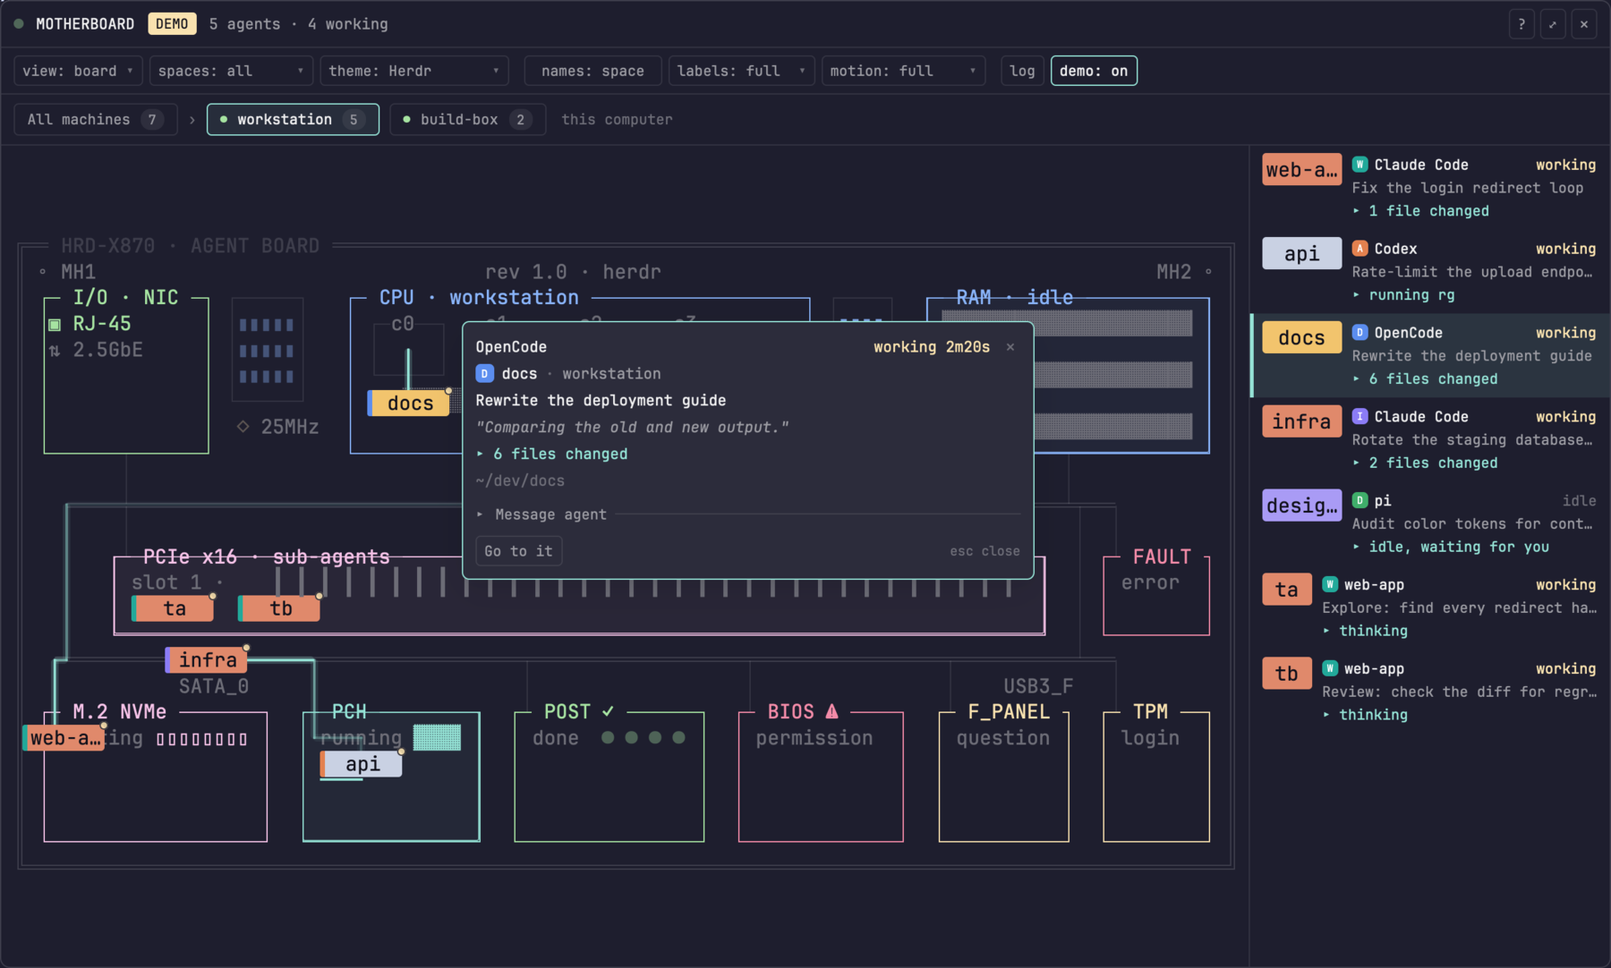
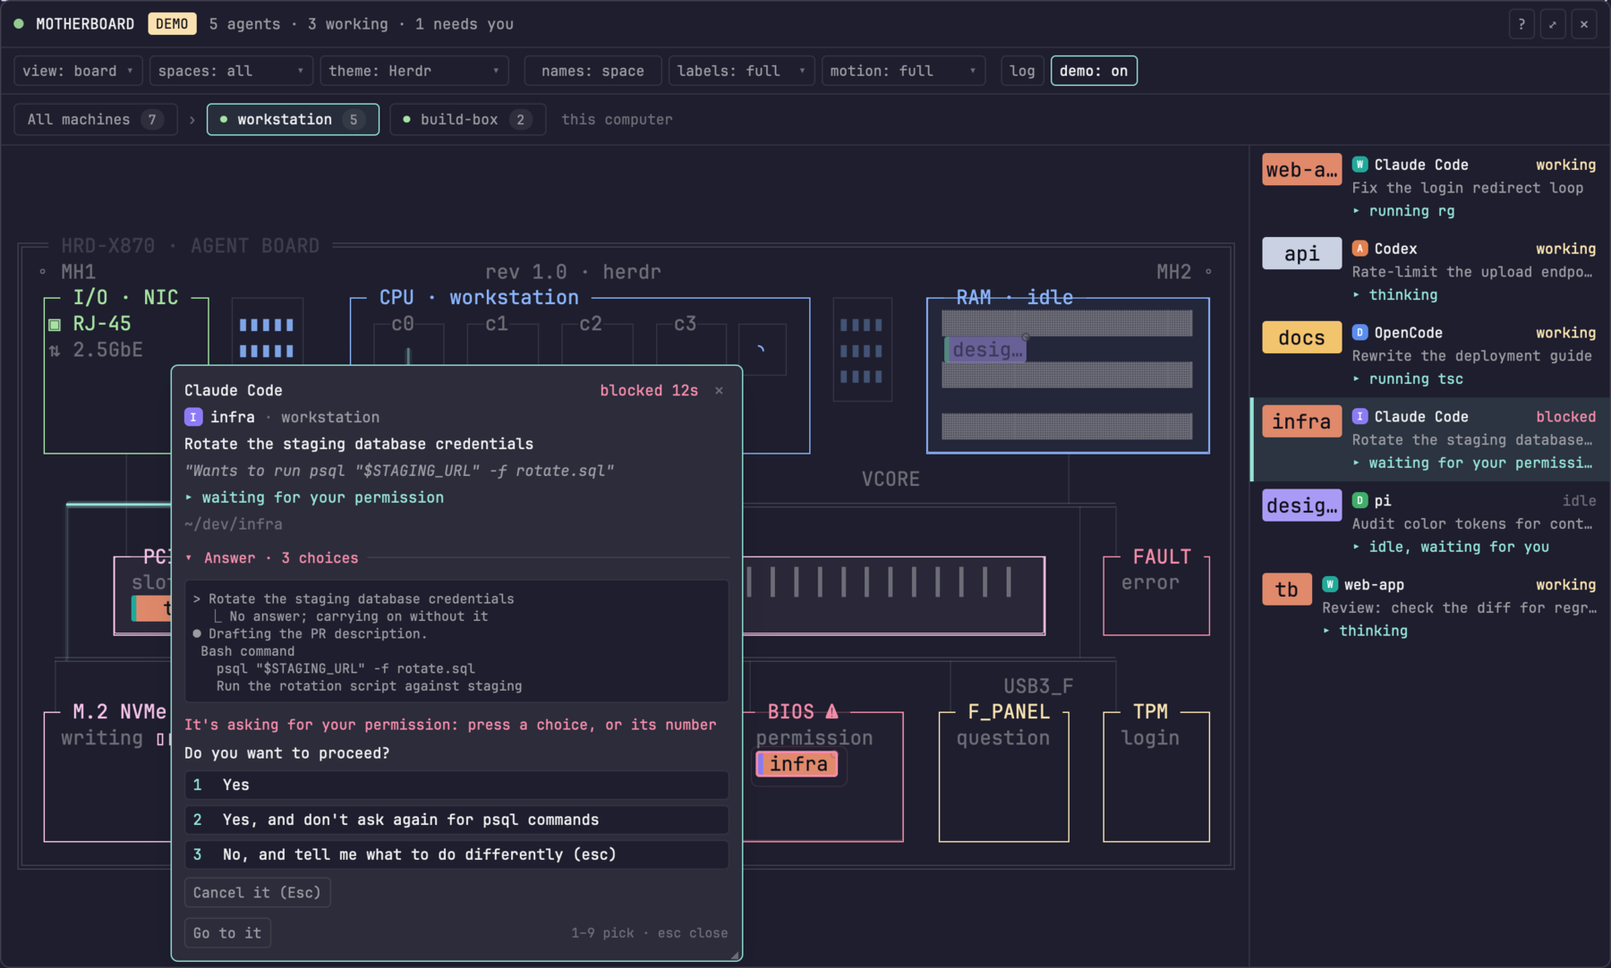
feat: message and answer demo agents
Demo agents now keep a screen, draw real-looking prompts and take the card's keys and messages, so the demo shows talking to agents. Demo cards remember expanded state in memory so they don't touch real agents' settings. The README gets a GIF of answering and messaging an agent, and an iso GIF.

diff --git a/mods/herdr-motherboard/demo.js b/mods/herdr-motherboard/demo.js
@@ -1,7 +1,9 @@
 // Demo mode: seven simulated agents on two machines, cycling through every state.
 // They are fed to the board in the same shapes Herdr's agents() and terminals() use,
 // plus what observation would have seen, so the board's real placement and motion
-// rules run on them unchanged. Pure: no herdr or gpui-kit imports.
+// rules run on them unchanged. Each one also keeps a made-up screen, drawn like an agent's (with a
+// numbered prompt while it's blocked), and takes the card's keys and messages the way a real
+// terminal takes `hc keys` and `hc send`, so the card works in demo. Pure: no herdr or gpui-kit imports.
 
 const APPS = {
   claude: { app: "claude-code", program: { key: "claude", name: "Claude Code" } },
@@ -15,7 +17,19 @@ const MSGS = [
   "Comparing the old and new output.", "Splitting this into two commits.", "Tracing where the token is refreshed.",
 ];
 const DONE = ["Done: 3 files changed, tests pass.", "PR #42 opened into develop.", "Guide rewritten; links checked.", "Audit written to findings.md."];
-const BLOCK = { permission: "Wants approval to push the branch.", question: "Should the limit be per user or per key?", auth: "gh needs you to log in again." };
+// What a blocked agent asks: a permission prompt for a command, a question with choices, or a login.
+const PERMS = [
+  { cmd: "git push -u origin HEAD", why: "Push the branch to origin", again: "git push" },
+  { cmd: "rm -rf dist", why: "Remove the old build output", again: "rm" },
+  { cmd: "psql \"$STAGING_URL\" -f rotate.sql", why: "Run the rotation script against staging", again: "psql" },
+];
+const QUESTIONS = [
+  { q: "Should the limit be per user or per key?", opts: ["Per user (Recommended)", "Per API key"] },
+  { q: "Which style should the guide use?", opts: ["Step by step (Recommended)", "Reference"] },
+  { q: "Keep the old endpoint working for a release?", opts: ["Yes, with a deprecation warning (Recommended)", "No, remove it now"] },
+];
+const RULE = "─".repeat(46);
+const LOG_LINES = 40;
 const CMDS = { pch: ["vitest", "pnpm", "tsc", "eslint", "make", "rg"], nic: ["curl", "gh", "git", "ssh"] };
 const SUB_TITLES = ["Explore: find every redirect handler", "Review: check the diff for regressions", "Search: where the session cookie is set"];
 const pick = (a) => a[Math.floor(Math.random() * a.length)];
@@ -50,9 +64,104 @@ export class Demo {
     };
     a.address = a.machine ? `${a.machine}/${a.label}` : a.label;
     if (a.parent && a.machine) a.parent = `${a.machine}/${a.parent}`;
-    a.msg = a.status === "done" ? pick(DONE) : a.status === "blocked" ? BLOCK[a.kind] : pick(MSGS);
+    a.lines = [`> ${a.title}`, ""];
+    a.ask = null;
+    a.typing = false;
+    // The seeded blocked agent (infra) asks to run its rotation script.
+    if (a.status === "blocked") this.block(a, a.kind ?? "permission", now, a.next, 2);
+    else { a.msg = a.status === "done" ? pick(DONE) : pick(MSGS); this.log(a, `● ${a.msg}`); }
     this.agents.push(a);
     return a;
+  }
+
+  /** Adds a line to an agent's screen, keeping the last LOG_LINES. */
+  log(a, line) {
+    a.lines.push(line);
+    if (a.lines.length > LOG_LINES) a.lines.splice(0, a.lines.length - LOG_LINES);
+  }
+
+  /** Blocks an agent on a prompt of `kind` (permission, question or auth) until `next`; `which` picks the command. */
+  block(a, kind, now, next = now + rand(14000, 22000), which = null) {
+    const ask = kind === "permission" ? { kind, ...(PERMS[which] ?? pick(PERMS)) } : kind === "question" ? { kind, ...pick(QUESTIONS) } : { kind };
+    const msg = kind === "permission" ? `Wants to run ${ask.cmd}` : kind === "question" ? ask.q : "gh needs you to log in again.";
+    this.set(a, "blocked", { kind, msg, next });
+    a.ask = ask;
+    a.typing = false;
+  }
+
+  /** Ends a block: the agent goes back to work with `line` on its screen. */
+  unblock(a, line, msg) {
+    this.log(a, line);
+    this.set(a, "working", { kind: null, msg: msg ?? pick(MSGS), next: Date.now() + rand(2500, 5000) });
+    a.ask = null;
+    a.typing = false;
+    a.turn++;
+    a.files = 0;
+    this.log(a, `● ${a.msg}`);
+  }
+
+  /** Keeps a blocked agent waiting while its card is open, so it doesn't answer itself under you. */
+  hold(address, now) {
+    const a = this.agents.find((x) => x.address === address);
+    if (a?.status === "blocked") a.next = Math.max(a.next, now + 5000);
+  }
+
+  /** The agent's screen as text, as `hc read` would give it; null when there's no such agent. */
+  read(address) {
+    const a = this.agents.find((x) => x.address === address);
+    if (!a) return null;
+    const out = [...a.lines];
+    const k = a.ask;
+    if (a.status === "blocked" && k && !a.typing) {
+      out.push("", RULE);
+      if (k.kind === "permission") {
+        out.push(" Bash command", "", `   ${k.cmd}`, `   ${k.why}`, "", " Do you want to proceed?");
+        out.push(" ❯ 1. Yes", `   2. Yes, and don't ask again for ${k.again} commands`, "   3. No, and tell me what to do differently (esc)");
+      } else if (k.kind === "question") {
+        out.push(` ${k.q}`, ...k.opts.map((o, i) => `${i ? "  " : " ❯"} ${i + 1}. ${o}`), `   ${k.opts.length + 1}. Type something.`);
+      } else out.push(" gh: authentication required", "", " Run `gh auth login`, then tell me to go on.");
+      out.push("", " Esc to cancel");
+    }
+    if (a.typing) out.push("", "Your answer: ");
+    return out.join("\n");
+  }
+
+  /**
+   * Takes what the card sends, in `hc` argument form: ["keys", "--json", addr, key] or
+   * ["send", "--json", ("--force"), "--", addr, text]. Returns why it failed, or null.
+   */
+  input(args) {
+    const keys = args[0] === "keys";
+    const i = args.indexOf("--");
+    const address = keys ? args[2] : args[i + 1];
+    const a = this.agents.find((x) => x.address === address);
+    if (!a) return "that demo agent has gone";
+    if (keys) {
+      const key = args[3];
+      if (a.status !== "blocked" || !a.ask || a.typing) return null;
+      if (key === "esc") { this.unblock(a, "  ⎿ Cancelled by you", "Okay, leaving that for now."); return null; }
+      const n = +key;
+      const k = a.ask;
+      if (k.kind === "permission" && n >= 1 && n <= 3) {
+        if (n === 3) this.unblock(a, `  ⎿ Not run: ${k.cmd}`, "Okay, trying another way.");
+        else { this.unblock(a, `● Bash(${k.cmd})`, n === 2 ? `Ran it, and won't ask about ${k.again} again.` : "Ran it; checking the result."); }
+      } else if (k.kind === "question" && n >= 1 && n <= k.opts.length) this.unblock(a, `  ⎿ ${k.opts[n - 1]}`, "Got it, going with that.");
+      else if (k.kind === "question" && n === k.opts.length + 1) a.typing = true;
+      return null;
+    }
+    const text = String(args[i + 2] ?? "").trim();
+    if (!text) return null;
+    if (a.status === "blocked") {
+      if (!args.includes("--force")) return "it's waiting on a prompt";
+      this.unblock(a, `  ⎿ ${text}`, "Got it, going with your answer.");
+      return null;
+    }
+    this.log(a, "");
+    this.log(a, `> ${text}`);
+    this.set(a, "working", { msg: `Looking at: "${text.length > 40 ? text.slice(0, 39) + "…" : text}"`, next: Date.now() + rand(2500, 4000) });
+    a.turn++;
+    this.log(a, `● ${a.msg}`);
+    return null;
   }
 
   spaces() {
@@ -76,9 +185,9 @@ export class Demo {
     switch (a.status) {
       case "working": {
         const r = Math.random();
-        if (r < 0.05) { const kind = pick(["permission", "permission", "question", "auth"]); this.set(a, "blocked", { kind, msg: BLOCK[kind], next: now + rand(6000, 11000) }); }
-        else if (r < 0.11) { this.set(a, "done", { msg: pick(DONE), next: now + rand(8000, 14000) }); this.agents = this.agents.filter((x) => x.parent !== a.address); }
-        else if (r < 0.125) this.set(a, "error", { msg: "Lost the connection to the model API.", next: now + rand(7000, 10000) });
+        if (r < 0.05) this.block(a, pick(["permission", "permission", "question", "auth"]), now);
+        else if (r < 0.11) { this.set(a, "done", { msg: pick(DONE), next: now + rand(8000, 14000) }); this.log(a, `● ${a.msg}`); this.agents = this.agents.filter((x) => x.parent !== a.address); }
+        else if (r < 0.125) { this.set(a, "error", { msg: "Lost the connection to the model API.", next: now + rand(7000, 10000) }); this.log(a, `  ⎿ Error: ${a.msg}`); }
         else if (r < 0.19 && a.app === "claude" && !subs.length) {
           for (let i = 0; i < (Math.random() < 0.5 ? 2 : 1); i++) this.add({ label: this.nextLabel(), machine: a.machine, app: a.app, space: a.space, title: pick(SUB_TITLES), cwd: a.cwd, status: "working", act: "cpu", parent: a.label, next: now + rand(9000, 16000) });
           a.next = now + rand(3000, 5000);
@@ -86,18 +195,19 @@ export class Demo {
           const opts = [["cpu", 0.35], ["pch", 0.27], ["nvme", 0.24], ["nic", 0.14]].filter(([k]) => k !== a.act);
           let roll = Math.random() * opts.reduce((s, [, w]) => s + w, 0);
           a.act = opts.find(([, w]) => (roll -= w) <= 0)?.[0] ?? "cpu";
-          if (a.act === "pch" || a.act === "nic") a.cmd = pick(CMDS[a.act]);
-          if (a.act === "nvme") a.files = Math.min(14, a.files + 1 + Math.floor(Math.random() * 3));
-          if (Math.random() < 0.4) a.msg = pick(MSGS);
+          if (a.act === "pch" || a.act === "nic") { a.cmd = pick(CMDS[a.act]); this.log(a, `● Bash(${a.cmd} …)`); }
+          if (a.act === "nvme") { a.files = Math.min(14, a.files + 1 + Math.floor(Math.random() * 3)); this.log(a, `● Update(${a.files} files)`); }
+          if (Math.random() < 0.4) { a.msg = pick(MSGS); this.log(a, `● ${a.msg}`); }
           if (a.progress != null) a.progress = Math.min(95, a.progress + 5 + Math.floor(Math.random() * 10));
           a.next = now + rand(2600, 6000);
         }
         break;
       }
-      case "blocked": this.set(a, "working", { kind: null, msg: pick(MSGS), next: now + rand(2500, 5000) }); a.turn++; a.files = 0; break;
+      // Nobody answered: it gives up waiting, as a demo should keep moving.
+      case "blocked": this.unblock(a, "  ⎿ No answer; carrying on without it"); break;
       case "error": case "done": this.set(a, "idle", { kind: null, next: now + rand(5000, 10000) }); break;
       default:
-        if (Math.random() < 0.45) { this.set(a, "working", { msg: pick(MSGS), next: now + rand(2500, 5000) }); a.turn++; a.files = 0; }
+        if (Math.random() < 0.45) { this.set(a, "working", { msg: pick(MSGS), next: now + rand(2500, 5000) }); a.turn++; a.files = 0; this.log(a, `● ${a.msg}`); }
         else a.next = now + rand(4000, 8000);
     }
   }

diff --git a/mods/herdr-motherboard/main.js b/mods/herdr-motherboard/main.js
@@ -116,6 +116,7 @@ export default class Motherboard extends View {
     this.pathsKey = null;
     this.demo = null;
     this.demoOn = false;
+    this.demoOpen = new Set();
     this.localName = "this computer";
     this.procKind = new Map();
     this.procFail = new Map();
@@ -207,6 +208,7 @@ export default class Motherboard extends View {
       this.demoOn = !!S.demo;
       // Made-up machine names, so a demo (and a screenshot of one) shows none of yours.
       this.demo = this.demoOn ? new Demo("build-box") : null;
+      this.demoOpen = new Set();
       this.recs.clear(); this.log = []; this.fading = []; this.hover = null; this.pill.pinned = null;
       changed = true;
     }
@@ -244,6 +246,7 @@ export default class Motherboard extends View {
       for (const [k, v] of Object.entries(next)) if (r[k] !== v) { r[k] = v; changed = true; }
     };
     if (this.demoOn) {
+      if (this.pin) this.demo.hold(this.pin, now);
       this.demo.tick(now);
       for (const f of this.demo.feed()) upsert(f.address, f.info, f.term, f.obs);
     } else {
@@ -261,7 +264,7 @@ export default class Motherboard extends View {
         if (this.pin === address) this.pin = null;
         if (this.hover === address) this.hover = null;
         // An expanded card is that agent's; a later terminal with the same address starts collapsed.
-        if ((S.expanded ?? []).includes(address)) save({ expanded: settings().expanded.filter((a) => a !== address) });
+        if (!this.demoOn && (S.expanded ?? []).includes(address)) save({ expanded: settings().expanded.filter((a) => a !== address) });
         changed = true;
         continue;
       }
@@ -533,7 +536,7 @@ export default class Motherboard extends View {
     this.cardFor = addr;
     this.pinN++;
     this.msg.set_value(""); this.sent = null; this.screen = null; this.answering = null; this.pinAt = null; this.cardDrag = null; this.cardHover = false;
-    if (addr && !this.demoOn) this.watchScreen(cx, addr, this.pinN);
+    if (addr) this.watchScreen(cx, addr, this.pinN);
   }
 
   /** Closes the card, pinned or hovered. `keyboard`: hand the keyboard back (Esc, ✕), not after a press elsewhere in Herdr. */
@@ -547,15 +550,16 @@ export default class Motherboard extends View {
   hoverGone() { return !this.pin && !!this.hover && this.chipHover !== this.hover; }
 
   /** Each agent's card is collapsed unless you expanded that one. */
-  isOpen(addr) { return (settings().expanded ?? []).includes(addr); }
+  isOpen(addr) { return this.demoOn ? this.demoOpen.has(addr) : (settings().expanded ?? []).includes(addr); }
   toggleOpen(addr) {
+    // Demo agents reuse real addresses (t1…), so their cards remember in memory, not in settings.
+    if (this.demoOn) { if (!this.demoOpen.delete(addr)) this.demoOpen.add(addr); return; }
     const keep = (settings().expanded ?? []).filter((a) => a !== addr && this.recs.has(a));
     save({ expanded: this.isOpen(addr) ? keep : [...keep, addr] });
   }
 
-  /** Whether the box can take text: not in demo, and when blocked only as an answer (see sendMsg). */
+  /** Whether the box can take text: when blocked, only as an answer (see sendMsg). */
   canType(r) {
-    if (this.demoOn) return false;
     if (r.status !== "blocked" || this.answering?.addr === r.address) return true;
     if (this.justAnswered(r.address)) return false;
     const scr = this.screen?.addr === r.address ? this.screen : null;
@@ -598,8 +602,9 @@ export default class Motherboard extends View {
   /** Whether an answer to this agent is on its way. */
   busy(addr) { return this.sent?.addr === addr && this.sent.state === "sending"; }
 
-  /** The agent's screen as text, or null when it can't be read. */
+  /** The agent's screen as text, or null when it can't be read. Demo agents draw their own. */
   async readScreen(addr) {
+    if (this.demoOn) return this.demo?.read(addr) ?? null;
     try {
       const res = await hc(["read", "--json", "--", addr]);
       if (res.code === 0) return JSON.parse(res.stdout).text ?? "";
@@ -607,8 +612,9 @@ export default class Motherboard extends View {
     return null;
   }
 
-  /** Runs one hc command for the card; returns why it failed, or null. */
+  /** Runs one hc command for the card; returns why it failed, or null. Demo agents take it themselves. */
   async hcStep(args) {
+    if (this.demoOn) return this.demo ? this.demo.input(args) : "demo is off";
     let res;
     try { res = await hc(args); } catch (e) { res = { code: 1, stdout: "", stderr: String(e) }; }
     return sendError(res);
@@ -630,7 +636,7 @@ export default class Motherboard extends View {
   answerOption(r, o, cx) {
     const shown = this.promptOf(r);
     const addr = r.address;
-    if (!shown || this.demoOn || this.busy(addr)) return;
+    if (!shown || this.busy(addr)) return;
     if (o.typed) { this.answering = { addr, n: o.n, label: o.label, shown }; this.msg.set_value(""); cx.timer.after(30, () => this.msg.focus()); return; }
     // Shown at once: the choice lights up and the others stop taking clicks until it's done.
     this.sent = { addr, state: "sending", text: `${o.n}. ${o.label}`, verb: "Picked", n: o.n };
@@ -1125,9 +1131,9 @@ export default class Motherboard extends View {
    */
   compose(card, r, P) {
     const scr = this.screen?.addr === r.address ? this.screen : null;
-    const lines = this.demoOn ? ["(a demo agent has no screen)"] : !scr ? ["reading its screen…"] : scr.lines == null ? ["(can't read its screen)"] : scr.lines.length ? scr.lines : ["(its screen is empty)"];
+    const lines = !scr ? ["reading its screen…"] : scr.lines == null ? ["(can't read its screen)"] : scr.lines.length ? scr.lines : ["(its screen is empty)"];
     const sent = this.sent?.addr === r.address ? this.sent : null;
-    const blocked = r.status === "blocked" && !this.demoOn;
+    const blocked = r.status === "blocked";
     const prompt = this.promptOf(r);
     const ans = this.answering?.addr === r.address ? this.answering : null;
     const asks = r.kind === "question" ? "It asked you a question" : r.kind === "auth" ? "It needs you to log in" : "It's asking for your permission";
@@ -1148,9 +1154,7 @@ export default class Motherboard extends View {
       .child(div().flex_1().min_w(0).truncate().text_color(P.text).child(o.label));
     };
     let lower;
-    if (this.demoOn) lower = div().flex_none().px(8).py(6).rounded(5).border_1().border_color(P.cardLine).text_size(11.5).text_color(P.dim)
-      .child("Demo agents can't take messages. Press d to turn demo off.");
-    else if (!blocked) lower = input();
+    if (!blocked) lower = input();
     else {
       // Its own question when the screen has one; else what it told Herdr.
       const q = prompt?.question ?? r.msg;

diff --git a/README.md b/README.md
@@ -22,19 +22,29 @@ it runs a command, it moves to the **PCH**. When it needs your permission, it la
 **BIOS** and pulses until you answer. You can tell what a dozen agents are doing at a glance,
 without opening a single tab.
 
+- **Talk to your agents without switching tabs.** Click an agent to read its screen, send it a
+  message, or answer its question or permission prompt right on the card.
 - **See everything at once.** One board per machine, every agent on it, with what each is doing
   right now.
-- **Answer without switching tabs.** Click an agent to read the bottom of the agent's screen, send
-  it a message, or pick an answer to its question or permission prompt right on the card.
 - **Works with any agent.** It reads Herdr's own status reports, refined by the agent's child
   processes and its repo's file changes. No hooks or setup per agent.
 - **Four ways to look at it.** The flat board, a 3D ASCII board, a logic-analyzer timeline,
   and an overview of every machine you're connected to.
 - **Seven themes**, or write your own in a few lines of JSON.
 
+## Talk to your agents
+
+When an agent needs you, its card shows exactly what it's asking, with its choices as buttons.
+Pick one and it goes straight back to work. Or just send it a message.
+
 <p align="center">
-  <img src="preview.png" alt="A card open beside its agent" width="100%">
+  <img src="docs/talk.gif" alt="Answering an agent's permission prompt, then messaging it, from its card" width="100%">
 </p>
+
+Hover an agent for its card. Click it to keep the card open, then expand **Message agent** to see
+the agent's screen and type to it. When it's blocked, its choices appear as buttons (or press
+`1`–`9`). Double-click an agent to go to its terminal. Try it in demo mode: the simulated agents
+take messages and answers too.
 
 ## Reading the board
 
@@ -52,15 +62,11 @@ without opening a single tab.
 | **POST** | done while you were away |
 | **RAM** | idle |
 
-Hover an agent for its card. Click it to keep the card open, then expand **Message agent** to see
-the agent's screen and type to it. When it's blocked, its choices appear as buttons (or press
-`1`–`9`). Double-click an agent to go to its terminal.
-
 ## Views
 
 <table>
   <tr>
-    <td width="50%"><img src="docs/iso.png" alt="3D ASCII view"><br><b>Iso</b>: the same board in 3D ASCII.</td>
+    <td width="50%"><img src="docs/iso.gif" alt="3D ASCII view"><br><b>Iso</b>: the same board in 3D ASCII.</td>
     <td width="50%"><img src="docs/scope.png" alt="Logic-analyzer view"><br><b>Scope</b>: a logic-analyzer trace of where each agent has been.</td>
   </tr>
   <tr>
@@ -132,7 +138,8 @@ Or let an agent do it: point an agent working in Herdr at this repo and ask it t
 
 ## Try it
 
-- **Demo:** click `demo` in the header for seven simulated agents across two machines.
+- **Demo:** click `demo` in the header for seven simulated agents across two machines. They
+  have screens and prompts too, so you can message them and answer their questions.
 - **A pretend agent:** run `node mods/herdr-motherboard/test/echo-agent.mjs` in a Herdr tab. It
   echoes what you send it. Send `ask` for a question or `allow` for a permission prompt, then
   answer from its card.

diff --git a/RECIPE.md b/RECIPE.md
@@ -126,7 +126,7 @@ corner: working pulses, blocked blinks red, done green, idle grey.
   agent redraws. A "Type something." choice opens the box: Enter presses its
   number, then pastes the answer. "Cancel it (Esc)" presses Esc there. With no menu on its
   screen, the box sends text anyway (`--force`). The screen box then shows what's above the
-  question (the command or diff being asked about). Demo agents get no box. The card stays
+  question (the command or diff being asked about). Demo agents work the same way (see Demo). The card stays
   put while the agent moves, and pressing the agent pins it where it is; drag its header to
   move it (that pins it too; double-click the header to put it back beside the agent). Every
   card opens beside its agent. Drag its corner to resize it (min 340 × 260, remembered); ✕, Esc or a press outside closes it.
@@ -144,7 +144,14 @@ corner: working pulses, blocked blinks red, done green, idle grey.
 - **Demo** (going to a demo agent shows a toast saying it needs a real terminal;
   clicking the toast turns demo off) swaps in 7 simulated agents (5 on this computer, 2 on the other machine, plus
   sub-agents) cycling through every state. Demo machines have made-up names
-  (`workstation`, `build-box`), so a screenshot shows none of the person's. Live data is untouched and returns when off.
+  (`workstation`, `build-box`), so a screenshot shows none of the person's. Each demo agent
+  keeps a made-up screen (`demo.js` `read`), and a blocked one draws a real-looking numbered
+  prompt: a permission prompt for a command, a question with choices plus "Type something.",
+  or a login. In demo the card's `hc read` / `hc keys` / `hc send` go to the simulator
+  (`demo.js` `input`), so messaging and answering work exactly as with a real agent: a pick
+  or Esc unblocks it, a message lands on its screen and puts it to work. A blocked demo agent
+  whose card is pinned waits for you; others give up after 14–22 s. Live data is untouched
+  and returns when off.
 - **Keys** (pressing any control, or opening the window, gives the board the keyboard): `v`
   view menu, `l` labels menu, `m` motion menu, `n` names, `z` size, `a` / Backspace all
   machines, `d` demo, `c` next theme, `t` log, `f` spaces menu, `s` this
@@ -270,6 +277,8 @@ corner: working pulses, blocked blinks red, done green, idle grey.
   close it.
 - An agent that starts working moves RAM → CPU along the bus with a lit trail; when it runs
   `sleep 5` it moves to the PCH and the log says "running sleep".
+- In demo, pinning the blocked agent (infra) shows its permission prompt as buttons; picking
+  "1. Yes" sends it back to the CPU and its screen says it ran the command.
 - Demo shows 7 agents across two machines, sub-agents in PCIe, and a blocked agent pulsing
   in BIOS; All machines shows one card per machine and each card opens its board.
 - Clicking the echo agent pins its card with its screen; typing "hi" and Enter makes it

diff --git a/CONTRIBUTING.md b/CONTRIBUTING.md
@@ -32,7 +32,8 @@ the script replaces that copy with yours. Herdr loads a symlinked mod but doesn'
 which is why it copies.
 
 Open the board with `cmd-shift-m` (`ctrl-shift-m` off macOS). Turn on `demo` in its header for
-seven simulated agents, or run the pretend agent in a Herdr tab to try messaging and answering:
+seven simulated agents, which you can also message and answer (`demo.js` plays their terminals).
+To try the real path through `hc`, run the pretend agent in a Herdr tab:
 
 ```sh
 node mods/herdr-motherboard/test/echo-agent.mjs
